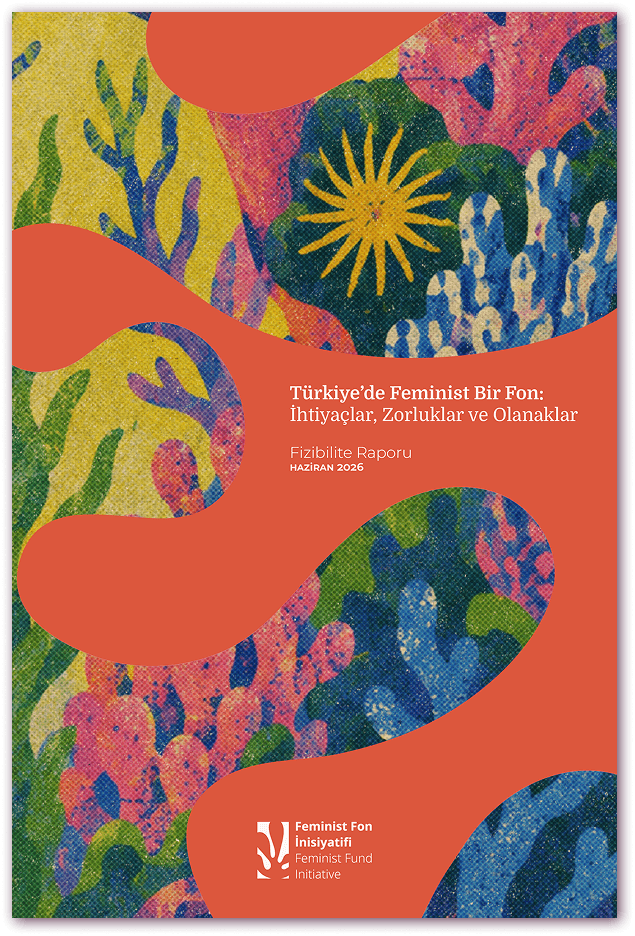
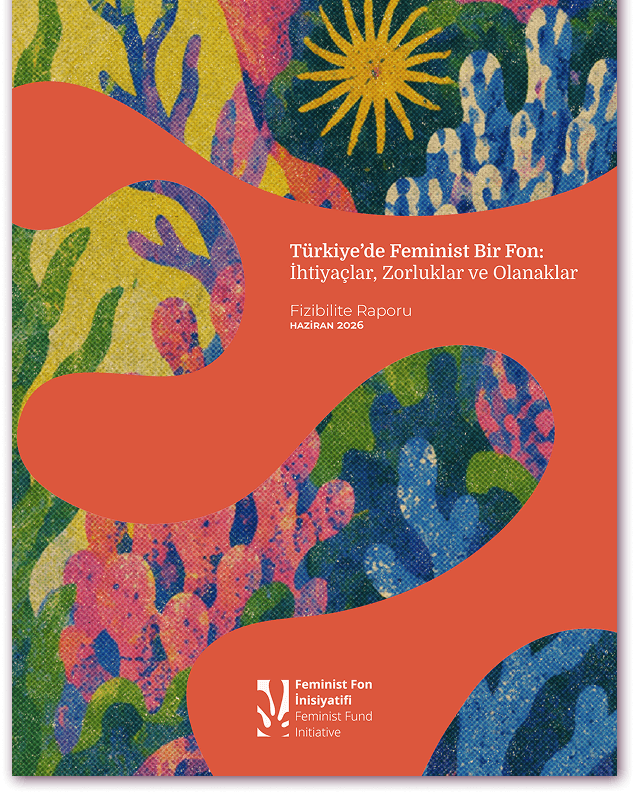
fix(pub-cover): stop cropping publication cover images
Cover aspect-ratio was hardcoded to one image's exact pixel size
(635/936), so object-fit: cover cropped every duyuru-*.png asset
(authored at 4:5) and clipped baked-in caption text. Switched to
4/5 to match the actual asset ratio, recropped ffi-rapor-cover.png
to the same ratio, enlarged the cover column, and removed the
KVKK/Privacy Policy link from the hamburger menu on all pages.

diff --git a/index.html b/index.html
@@ -219,10 +219,10 @@
      publications). Each slide reuses the same .pub-row card that used to be
      the whole section, so the single-publication view still looks the same
      as it always did — it's just slide 1 of several now. ---------- */
-  .pub-row { display: grid; grid-template-columns: minmax(0,220px) minmax(0,1fr); gap: var(--space-xl); align-items: center; }
+  .pub-row { display: grid; grid-template-columns: minmax(0,270px) minmax(0,1fr); gap: var(--space-xl); align-items: center; }
   @media (max-width: 640px) { .pub-row { grid-template-columns: minmax(0,1fr); } }
   .pub-cover { border-radius: var(--radius-card); overflow: hidden; box-shadow: var(--shadow-soft); }
-  .pub-cover img { width: 100%; aspect-ratio: 635 / 936; object-fit: cover; }
+  .pub-cover img { width: 100%; aspect-ratio: 4 / 5; object-fit: cover; }
   .pub-copy p { color: var(--color-ink-soft); margin: var(--space-md) 0 var(--space-lg); max-width: 56ch; text-wrap: pretty; }
 
   .pub-track { list-style: none; margin: 0; padding: 0; display: flex; overflow-x: auto; scroll-snap-type: x mandatory; scrollbar-width: none; -ms-overflow-style: none; }
@@ -346,7 +346,6 @@
   <ul>
     <li><a href="#">Ana sayfa</a></li>
     <li><a href="hakkimizda.html">Hakkımızda</a></li>
-    <li><a href="kvkk.html">KVKK</a></li>
     <li><a href="duyurular.html">Duyurular</a></li>
     <li><a href="yayinlar.html">Yayınlar</a></li>
     <li><a href="#iletisim">İletişim</a></li>

diff --git a/en.html b/en.html
@@ -138,10 +138,10 @@
   .card h3 { margin-bottom: var(--space-md); }
   .card p { color: rgba(255,255,255,0.85); }
 
-  .pub-row { display: grid; grid-template-columns: minmax(0,220px) minmax(0,1fr); gap: var(--space-xl); align-items: center; }
+  .pub-row { display: grid; grid-template-columns: minmax(0,270px) minmax(0,1fr); gap: var(--space-xl); align-items: center; }
   @media (max-width: 640px) { .pub-row { grid-template-columns: minmax(0,1fr); } }
   .pub-cover { border-radius: var(--radius-card); overflow: hidden; box-shadow: var(--shadow-soft); }
-  .pub-cover img { width: 100%; aspect-ratio: 635 / 936; object-fit: cover; }
+  .pub-cover img { width: 100%; aspect-ratio: 4 / 5; object-fit: cover; }
   .pub-copy p { color: var(--color-ink-soft); margin: var(--space-md) 0 var(--space-lg); max-width: 56ch; text-wrap: pretty; }
 
   .pub-track { list-style: none; margin: 0; padding: 0; display: flex; overflow-x: auto; scroll-snap-type: x mandatory; scrollbar-width: none; -ms-overflow-style: none; }
@@ -248,7 +248,6 @@
   <ul>
     <li><a href="#">Home</a></li>
     <li><a href="en-hakkimizda.html">About</a></li>
-    <li><a href="en-kvkk.html">Privacy Policy</a></li>
     <li><a href="en-duyurular.html">Announcements</a></li>
     <li><a href="en-yayinlar.html">Publications</a></li>
     <li><a href="#iletisim">Contact</a></li>

diff --git a/en-404.html b/en-404.html
@@ -95,7 +95,6 @@
   <ul>
     <li><a href="en.html">Home</a></li>
     <li><a href="en-hakkimizda.html">About</a></li>
-    <li><a href="en-kvkk.html">Privacy Policy</a></li>
     <li><a href="en-duyurular.html">Announcements</a></li>
     <li><a href="en-yayinlar.html">Publications</a></li>
     <li><a href="en.html#iletisim">Contact</a></li>

diff --git a/404.html b/404.html
@@ -95,7 +95,6 @@
   <ul>
     <li><a href="index.html">Ana sayfa</a></li>
     <li><a href="hakkimizda.html">Hakkımızda</a></li>
-    <li><a href="kvkk.html">KVKK</a></li>
     <li><a href="duyurular.html">Duyurular</a></li>
     <li><a href="yayinlar.html">Yayınlar</a></li>
     <li><a href="index.html#iletisim">İletişim</a></li>

diff --git a/en-kvkk.html b/en-kvkk.html
@@ -88,7 +88,6 @@
   <ul>
     <li><a href="en.html">Home</a></li>
     <li><a href="en-hakkimizda.html">About</a></li>
-    <li><a href="#">Privacy Policy</a></li>
     <li><a href="en-duyurular.html">Announcements</a></li>
     <li><a href="en-yayinlar.html">Publications</a></li>
     <li><a href="en.html#iletisim">Contact</a></li>

diff --git a/en-yayinlar.html b/en-yayinlar.html
@@ -121,7 +121,6 @@
   <ul>
     <li><a href="en.html">Home</a></li>
     <li><a href="en-hakkimizda.html">About</a></li>
-    <li><a href="en-kvkk.html">Privacy Policy</a></li>
     <li><a href="en-duyurular.html">Announcements</a></li>
     <li><a href="#">Publications</a></li>
     <li><a href="en.html#iletisim">Contact</a></li>

diff --git a/en-duyurular.html b/en-duyurular.html
@@ -112,7 +112,6 @@
   <ul>
     <li><a href="en.html">Home</a></li>
     <li><a href="en-hakkimizda.html">About</a></li>
-    <li><a href="en-kvkk.html">Privacy Policy</a></li>
     <li><a href="#">Announcements</a></li>
     <li><a href="en-yayinlar.html">Publications</a></li>
     <li><a href="en.html#iletisim">Contact</a></li>

diff --git a/en-hakkimizda.html b/en-hakkimizda.html
@@ -101,7 +101,6 @@
   <ul>
     <li><a href="en.html">Home</a></li>
     <li><a href="#">About</a></li>
-    <li><a href="en-kvkk.html">Privacy Policy</a></li>
     <li><a href="en-duyurular.html">Announcements</a></li>
     <li><a href="en-yayinlar.html">Publications</a></li>
     <li><a href="en.html#iletisim">Contact</a></li>

diff --git a/kvkk.html b/kvkk.html
@@ -88,7 +88,6 @@
   <ul>
     <li><a href="index.html">Ana sayfa</a></li>
     <li><a href="hakkimizda.html">Hakkımızda</a></li>
-    <li><a href="#">KVKK</a></li>
     <li><a href="duyurular.html">Duyurular</a></li>
     <li><a href="yayinlar.html">Yayınlar</a></li>
     <li><a href="index.html#iletisim">İletişim</a></li>

diff --git a/yayinlar.html b/yayinlar.html
@@ -121,7 +121,6 @@
   <ul>
     <li><a href="index.html">Ana sayfa</a></li>
     <li><a href="hakkimizda.html">Hakkımızda</a></li>
-    <li><a href="kvkk.html">KVKK</a></li>
     <li><a href="duyurular.html">Duyurular</a></li>
     <li><a href="#">Yayınlar</a></li>
     <li><a href="index.html#iletisim">İletişim</a></li>

diff --git a/duyurular.html b/duyurular.html
@@ -112,7 +112,6 @@
   <ul>
     <li><a href="index.html">Ana sayfa</a></li>
     <li><a href="hakkimizda.html">Hakkımızda</a></li>
-    <li><a href="kvkk.html">KVKK</a></li>
     <li><a href="#">Duyurular</a></li>
     <li><a href="yayinlar.html">Yayınlar</a></li>
     <li><a href="index.html#iletisim">İletişim</a></li>

diff --git a/hakkimizda.html b/hakkimizda.html
@@ -101,7 +101,6 @@
   <ul>
     <li><a href="index.html">Ana sayfa</a></li>
     <li><a href="#">Hakkımızda</a></li>
-    <li><a href="kvkk.html">KVKK</a></li>
     <li><a href="duyurular.html">Duyurular</a></li>
     <li><a href="yayinlar.html">Yayınlar</a></li>
     <li><a href="index.html#iletisim">İletişim</a></li>
